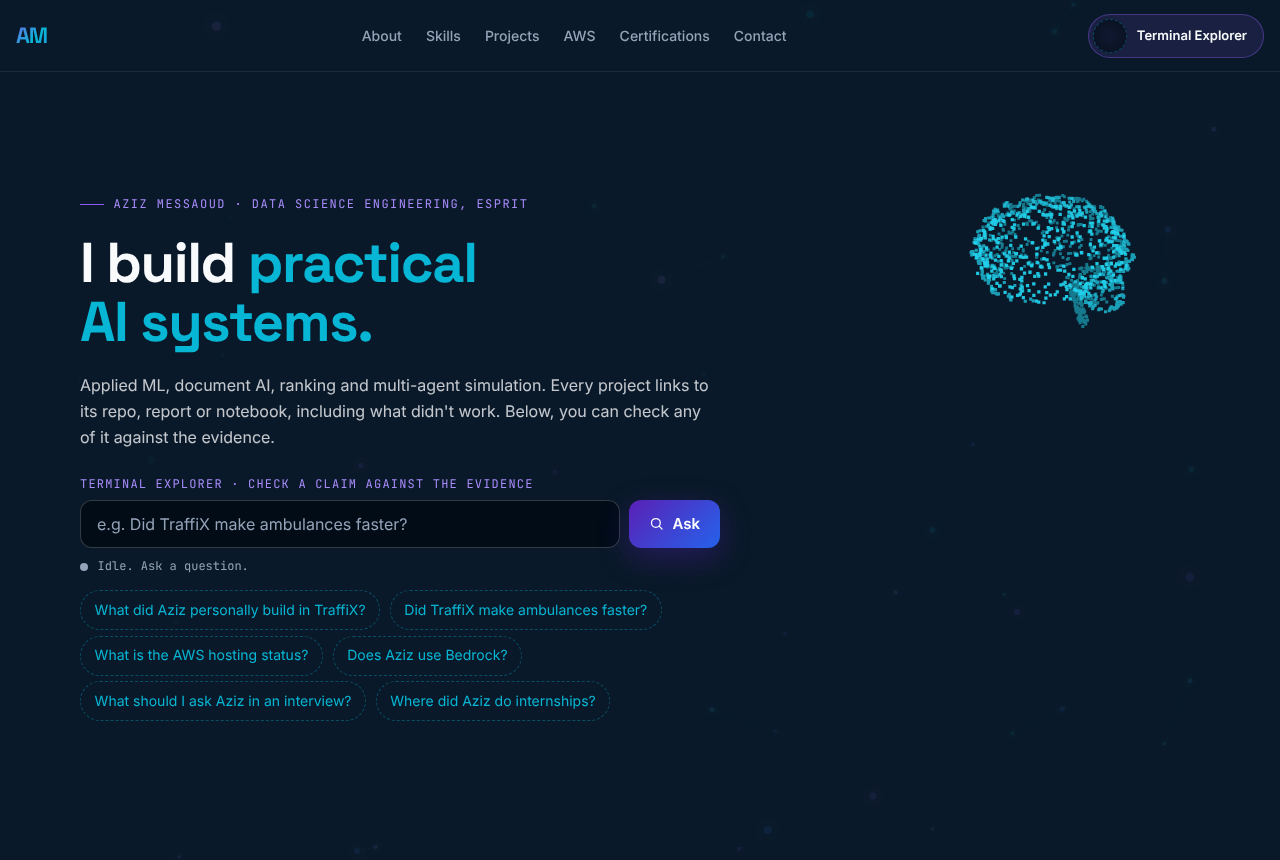
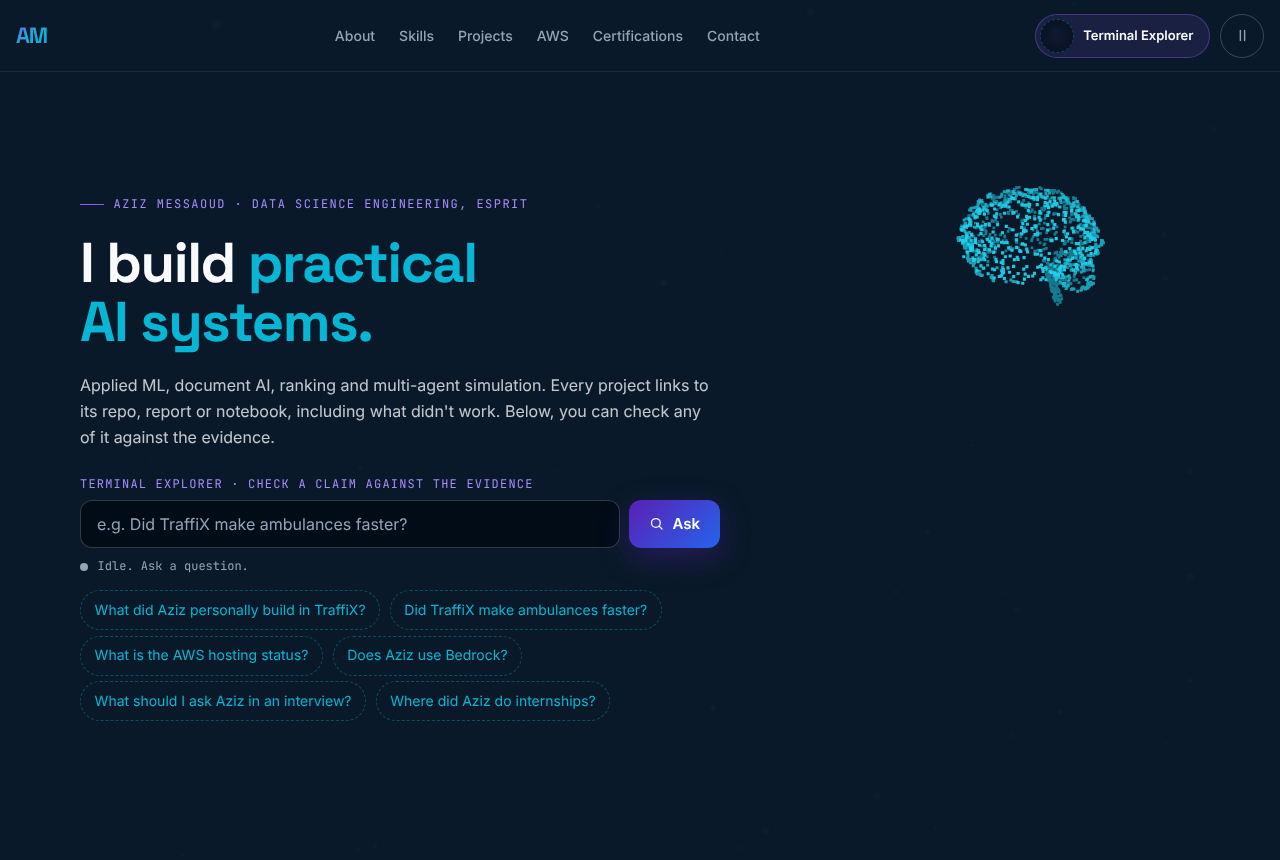
Pause control: keep the scene clear of the button; add pause-then-scroll, resize, keyboard and layout tests
Claude-Session: https://claude.ai/code/session_01CPfrMnpMwkZ1yM78Z6sMH9

Changed region(s): [[0.75, 0.2116, 0.9062, 0.393], [0.25, 0.0302, 0.625, 0.0605], [0.8438, 0.0, 0.9688, 0.0605]]

diff --git a/tests/e2e/site.spec.ts b/tests/e2e/site.spec.ts
@@ -585,3 +585,102 @@ test("the question box understands typos and a recruiter's questions", async ({ 
   }
 });
 
+/* ── motion control: the cases the PR left open ── */
+const toggleRect = (page: Page) => page.locator(".motion-toggle").boundingBox();
+
+test("the scene draws no brain dots or labels behind the motion button", async ({ page }) => {
+  await page.goto("/");
+  await page.waitForTimeout(600);
+  let worst = 0;
+  for (let i = 0; i < 12; i++) {
+    worst = Math.max(worst, await page.evaluate(() => {
+      const c = document.querySelector<HTMLCanvasElement>(".brain-canvas")!, r = document.querySelector(".motion-toggle")!.getBoundingClientRect();
+      const k = c.width / innerWidth, d = c.getContext("2d")!.getImageData(Math.round(r.left * k), Math.round(r.top * k), Math.round(r.width * k), Math.round(r.height * k)).data;
+      let n = 0; for (let j = 3; j < d.length; j += 4) if (d[j] > 120) n++;
+      return n;
+    }));
+    await page.waitForTimeout(250);
+  }
+  expect(worst).toBe(0);
+});
+
+test("pausing, then scrolling across the dock threshold, still docks and undocks correctly", async ({ page }) => {
+  await page.goto("/");
+  await page.waitForTimeout(900);
+  const run = await runway(page);
+  await page.getByRole("button", { name: "Pause motion" }).click();
+  await scrollPage(page, Math.round(run * 0.4));
+  await scrollPage(page, run + 500);
+  await page.waitForTimeout(300);
+  await expect(page.locator(".nav-cta")).toHaveClass(/is-docked/);
+  await scrollPage(page, 0);
+  await page.waitForTimeout(300);
+  await expect(page.locator(".nav-cta")).not.toHaveClass(/is-docked/);
+  expect(await frames(page)).toBe(await frames(page));
+  await page.getByRole("button", { name: "Resume motion" }).click();
+  await scrollPage(page, run + 500);
+  await expect(page.locator(".nav-cta")).toHaveClass(/is-docked/, { timeout: 2000 });
+});
+
+test("resizing while paused keeps the scene still and the layout intact", async ({ page }) => {
+  await page.goto("/");
+  await page.waitForTimeout(700);
+  await page.getByRole("button", { name: "Pause motion" }).click();
+  const f = await frames(page);
+  for (const [w, h] of [[900, 700], [390, 844], [1280, 860]] as const) {
+    await page.setViewportSize({ width: w, height: h });
+    await page.waitForTimeout(250);
+    expect(await page.evaluate(() => document.documentElement.scrollWidth - document.documentElement.clientWidth), `${w}px overflow`).toBe(0);
+  }
+  expect(await frames(page)).toBe(f);
+  await expect(page.getByRole("button", { name: "Resume motion" })).toBeVisible();
+});
+
+test("the question box still works while motion is paused, and the text status still moves", async ({ page }) => {
+  await page.goto("/");
+  await page.waitForTimeout(700);
+  await page.getByRole("button", { name: "Pause motion" }).click();
+  const f = await frames(page);
+  await ask(page, "Does Aziz use Bedrock?");
+  await expect(page.locator(".ask-status")).toContainText("Retrieving evidence");
+  await expect(page.locator(".ask-answer")).toContainText("Not verified");
+  await expect(page.locator(".ask-status")).toContainText("Not verified");
+  expect(await frames(page)).toBe(f);
+});
+
+test("the motion button is reachable by keyboard, 44 px, and fits beside the other nav controls at 320 and 390 px", async ({ page }) => {
+  for (const w of [320, 390, 1280]) {
+    await page.setViewportSize({ width: w, height: 844 });
+    await page.goto("/");
+    await page.waitForTimeout(500);
+    const b = (await toggleRect(page))!;
+    expect(b.width, `${w}px width`).toBeGreaterThanOrEqual(44);
+    expect(b.height, `${w}px height`).toBeGreaterThanOrEqual(44);
+    expect(b.x + b.width, `${w}px right edge`).toBeLessThanOrEqual(w);
+    expect(await page.evaluate(() => document.documentElement.scrollWidth - document.documentElement.clientWidth), `${w}px overflow`).toBe(0);
+    const overlap = await page.evaluate(() => {
+      const r = (s: string) => document.querySelector(s)!.getBoundingClientRect();
+      const a = r(".motion-toggle"), others = [r(".nav-cta"), r(".nav-toggle")].filter((o) => o.width > 0);
+      return others.some((o) => a.left < o.right && a.right > o.left && a.top < o.bottom && a.bottom > o.top);
+    });
+    expect(overlap, `${w}px overlap`).toBe(false);
+  }
+  await page.setViewportSize({ width: 1280, height: 860 });
+  await page.goto("/");
+  await page.locator(".nav-cta").focus();
+  await page.keyboard.press("Tab");
+  await expect(page.getByRole("button", { name: "Pause motion" })).toBeFocused();
+  await page.keyboard.press("Enter");
+  await expect(page.getByRole("button", { name: "Resume motion" })).toBeFocused();
+});
+
+test.describe("reduced motion hides the button and ignores a stored pause", () => {
+  test.use({ reducedMotion: "reduce" });
+  test("no motion button, still frames", async ({ page }) => {
+    await page.addInitScript(() => localStorage.setItem("portfolio-motion-paused", "true"));
+    await page.goto("/");
+    await expect(page.getByRole("button", { name: /motion/i })).toHaveCount(0);
+    await expect(page.locator(".hero-h1")).toBeVisible();
+  });
+});
+

diff --git a/src/scene/NeuralScene.tsx b/src/scene/NeuralScene.tsx
@@ -19,7 +19,7 @@ export default function NeuralScene({ reduced, onReady, onDocked }: Props) {
       intro: document.documentElement.classList.contains("intro") || scrollY < 10,
       textBlocks: () => Array.from(hero.querySelectorAll(".hero-inner > *")),
       /* everything in the fixed nav except the brain's own slot, plus the scroll hint */
-      fixedAvoid: () => Array.from(document.querySelectorAll(".nav-logo, .nav-links a, .cta-label, .nav-toggle, .nav.is-open .nav-links, .scroll-hint"))
+      fixedAvoid: () => Array.from(document.querySelectorAll(".nav-logo, .nav-links a, .motion-toggle, .cta-label, .nav-toggle, .nav.is-open .nav-links, .scroll-hint"))
         .filter((el) => getComputedStyle(el).visibility !== "hidden"),
       dockSlot: () => document.querySelector(".nav-cta .dock-brain"),
       onDocked,
